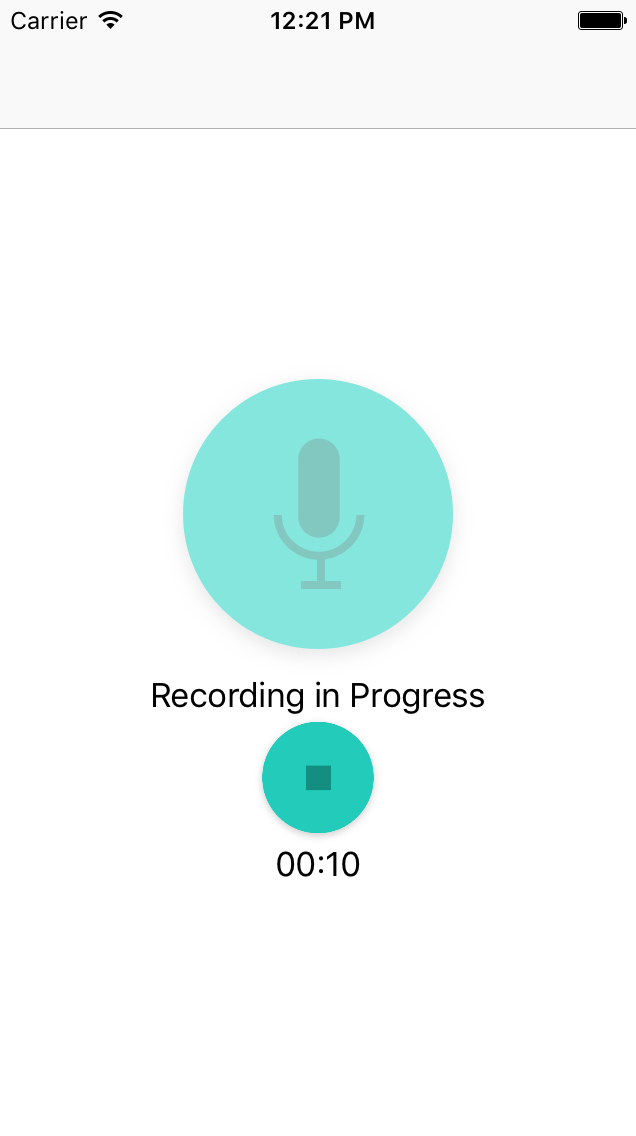
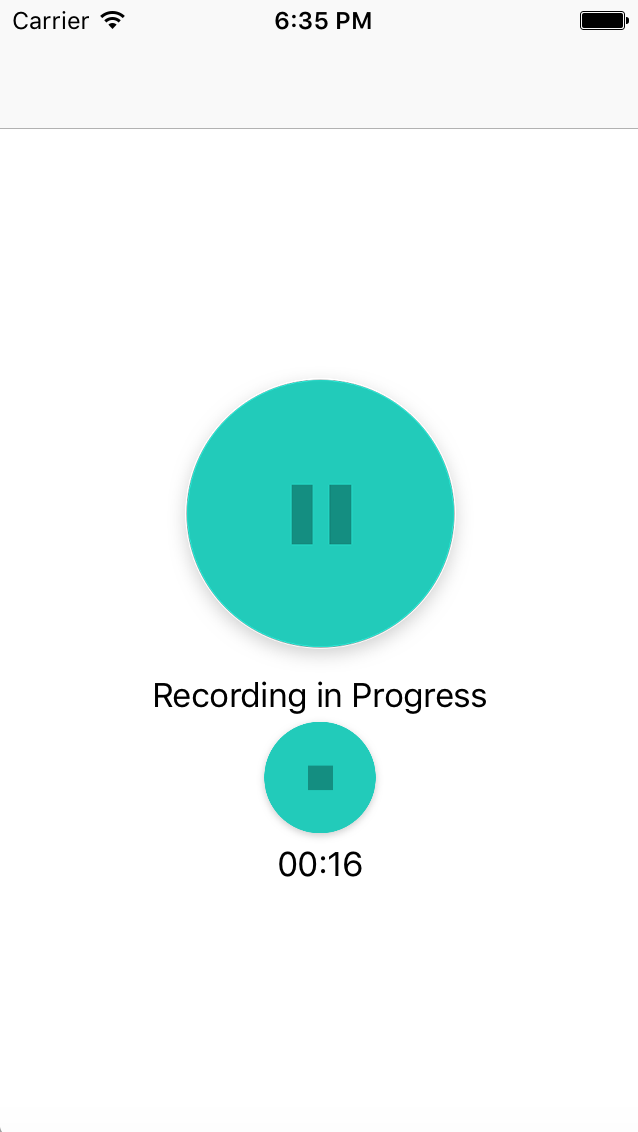
update README.md

diff --git a/README.md b/README.md
@@ -7,12 +7,38 @@ PitchPerfect는 음성을 녹음하고 6가지 다른 소리로 변조하여 재
 6가지 다른 소리는 빠르게, 느리게, 음의 높이를 높게, 낮게, echo, reverb 가 있습니다.
 
 ## 추가 기능
-PitchPerfect_ChunghyupOh는 기존 PitchPerfect에서 아래와 같은 기능들이 추가되었습니다.
+PitchPerfect_ChunghyupOh는 기존 PitchPerfect에 Audio player와 같은 기능을 넣음으로써 사용자가 PitchPerfect의 기능을 즐기기에 더욱 편리하도록 추가기능을 구현하였습니다. 구현 내용은 아래 목록과 같습니다.
 1. Stack view
-1. Duration
-1. Slider
-1. play
-1. Pause
 
-## 스크린샷 
-<img src="/image/image1.png" width="200"/>
+  두번째 화면 뿐만 아니라 첫번쨰 화면 역시 stackView로 구성을 하였습니다.
+
+1. Duration
+
+  녹음 버튼을 누를시 녹음이 시작부터 흐른 시간을 mm:ss 형식으로 보여줍니다.
+
+1. Pause recording
+
+  언제든지 녹음을 일시정지한 후 이어서 녹음을 계속 할 수 있습니다.
+
+1. Slider
+
+  현재 재생중인 오디오의 상태를 "currentTime(mm:ss) : totalDuration(mm : ss)" 의 포멧으로 보여주며, 슬라이더를 이동할 경우 currentTime 값이 변화하여 사용자가 이동하고자 하는 시간대를 비교적 정확하게 이동 할 수 있도록 도와줍니다. 오디오가 재생중인 상태에서는 슬라이더를 이동 시 이동된 위치에서 바로 재생되며 일시정지가 된 상태에서는 재생 버튼을 눌러야만 재생이 됩니다.</br>
+  또한 재생중에도 mm:ss뿐만 아니라 slider가 함께 움직여 사용자가 현재 재생중인 부분이 전체 오디오에서 어느 부분을 재생중인 것인지 확인 할 수 있습니다.
+
+1. play, pause
+
+  오디오가 재생중에도 slider를 통해 재생 위치를 변경 할 수 있지만, 사용자가 원할 경우 일시정지 버튼을 통해 오디오를 멈춘후 슬라이더를 조작 할 수 있습니다.
+
+## 스크린샷
+<img src="/image/image1.png" width="200"/></br>
+앱을 실행하였을 시 화면입니다. </br>
+<img src="/image/image2.png" width="200"/></br>
+녹음을 시작 할 시 녹음중인 audio의 길이를 표시해줍니다.</br>
+일시정지 버튼을 통해 일시정지 후 이어서 녹음할 수 있습니다. </br>
+<img src="/image/image3.png" width="200"/></br>
+녹을을 완료 할 경우 위와 같은 화면이 나타납니다. </br>
+<img src="/image/image4.png" width="200"/></br>
+위 6개의 버튼중 하나를 선택시 위와 같이 재생이 됩니다. </br>
+<img src="/image/image5.png" width="200"/></br>
+재생 중 일시정지 버튼을 누를 경우 위와 같이 화면이 표시됩니다.</br>
+slider, 재생, 일시정지를 통해 실행중인 오디오를 조작할 수 있습니다.</br>
